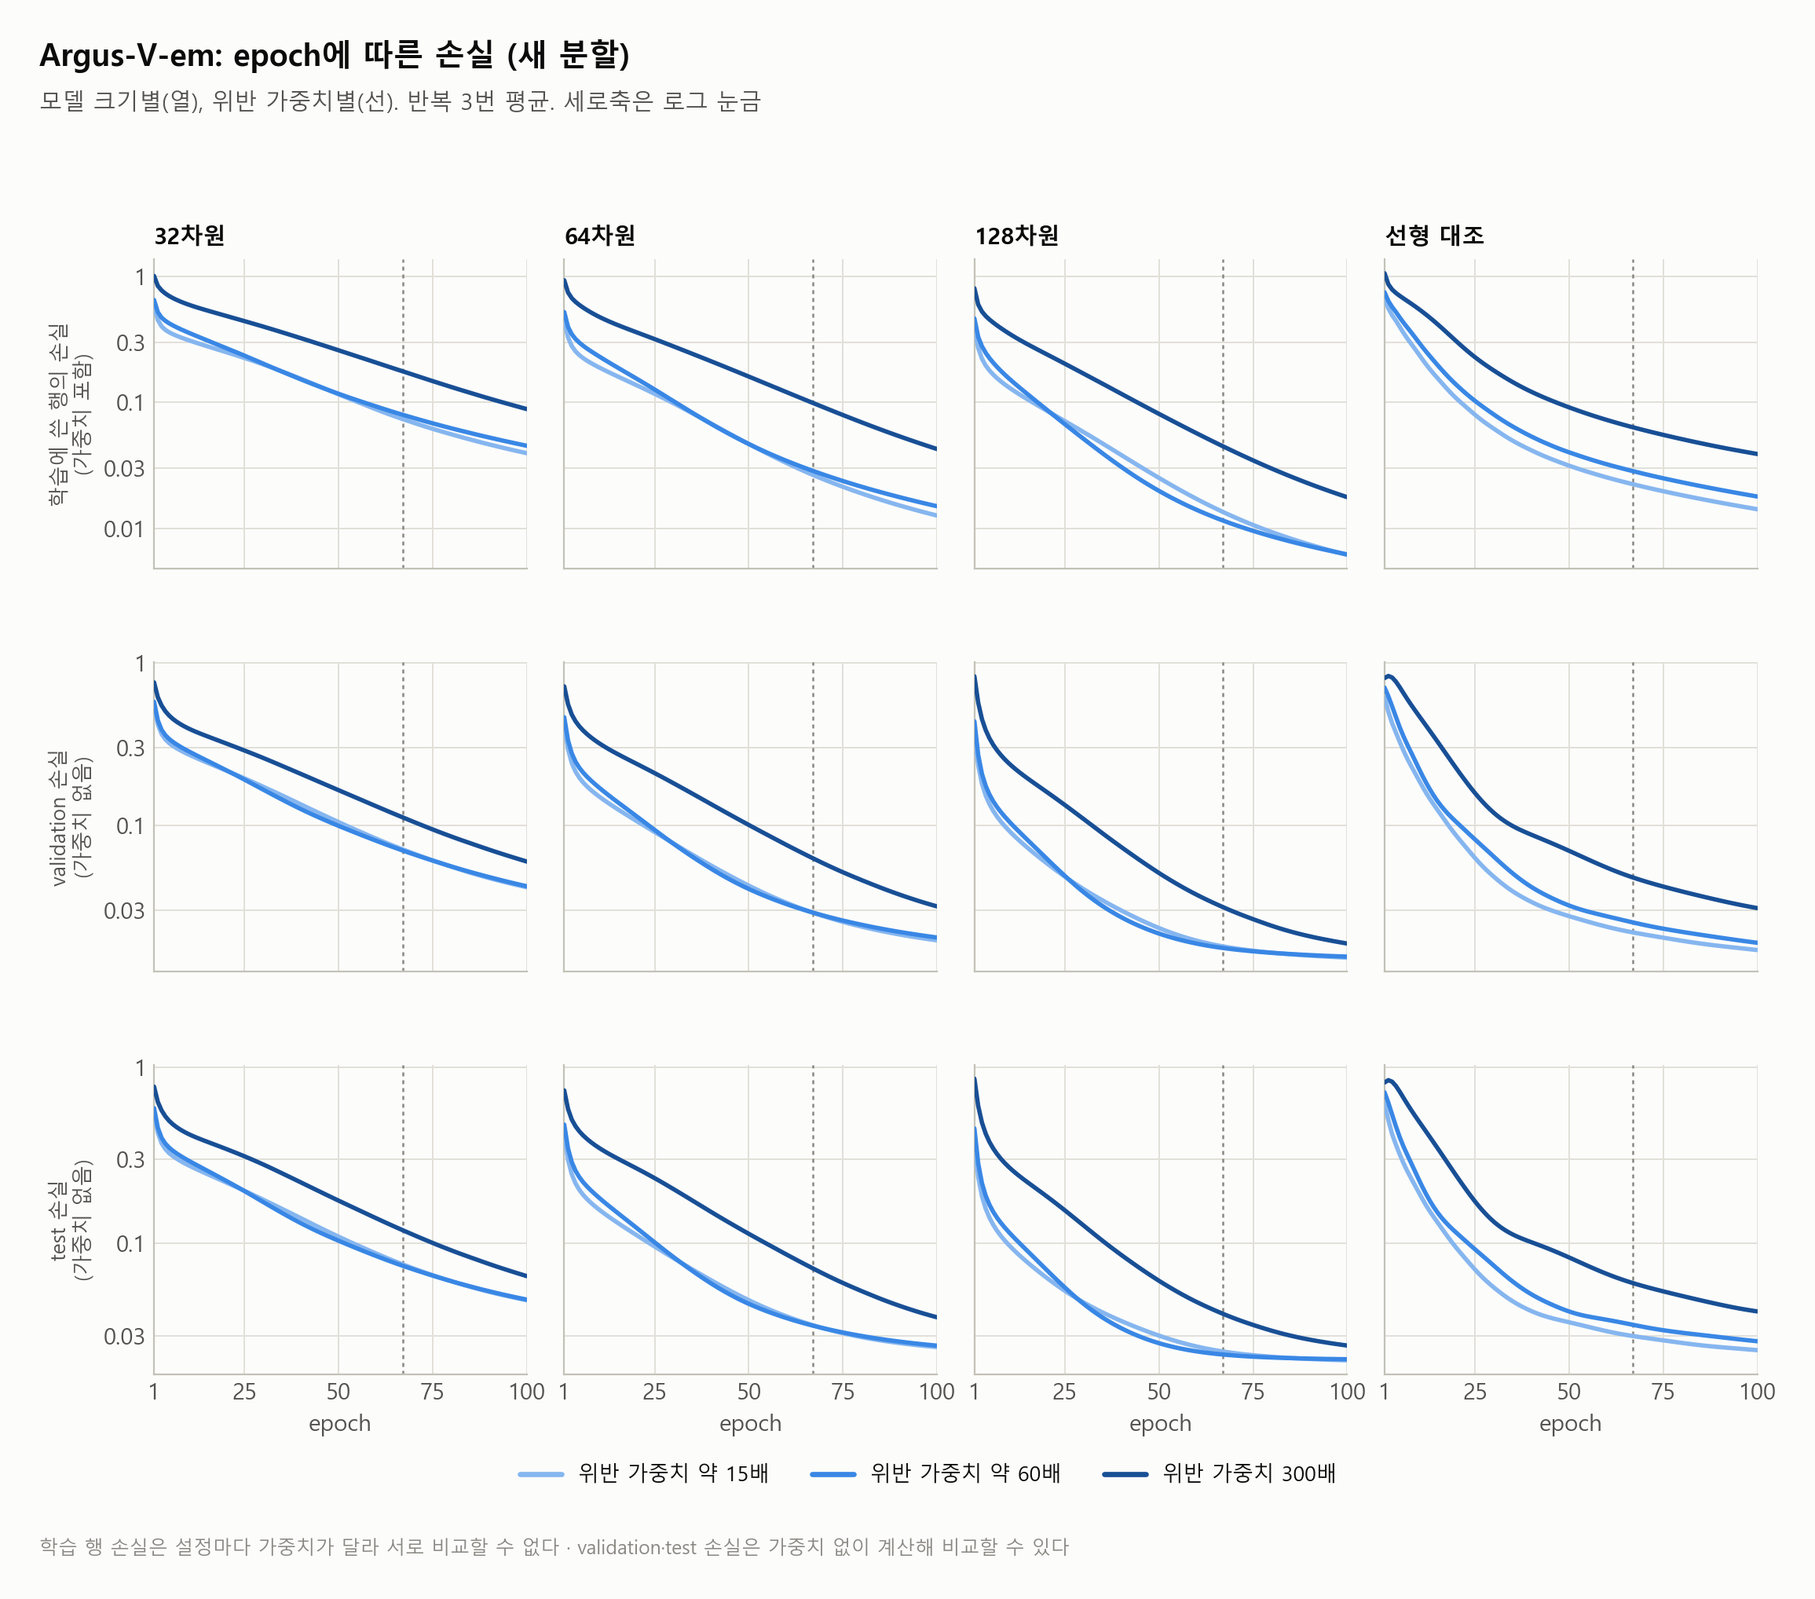
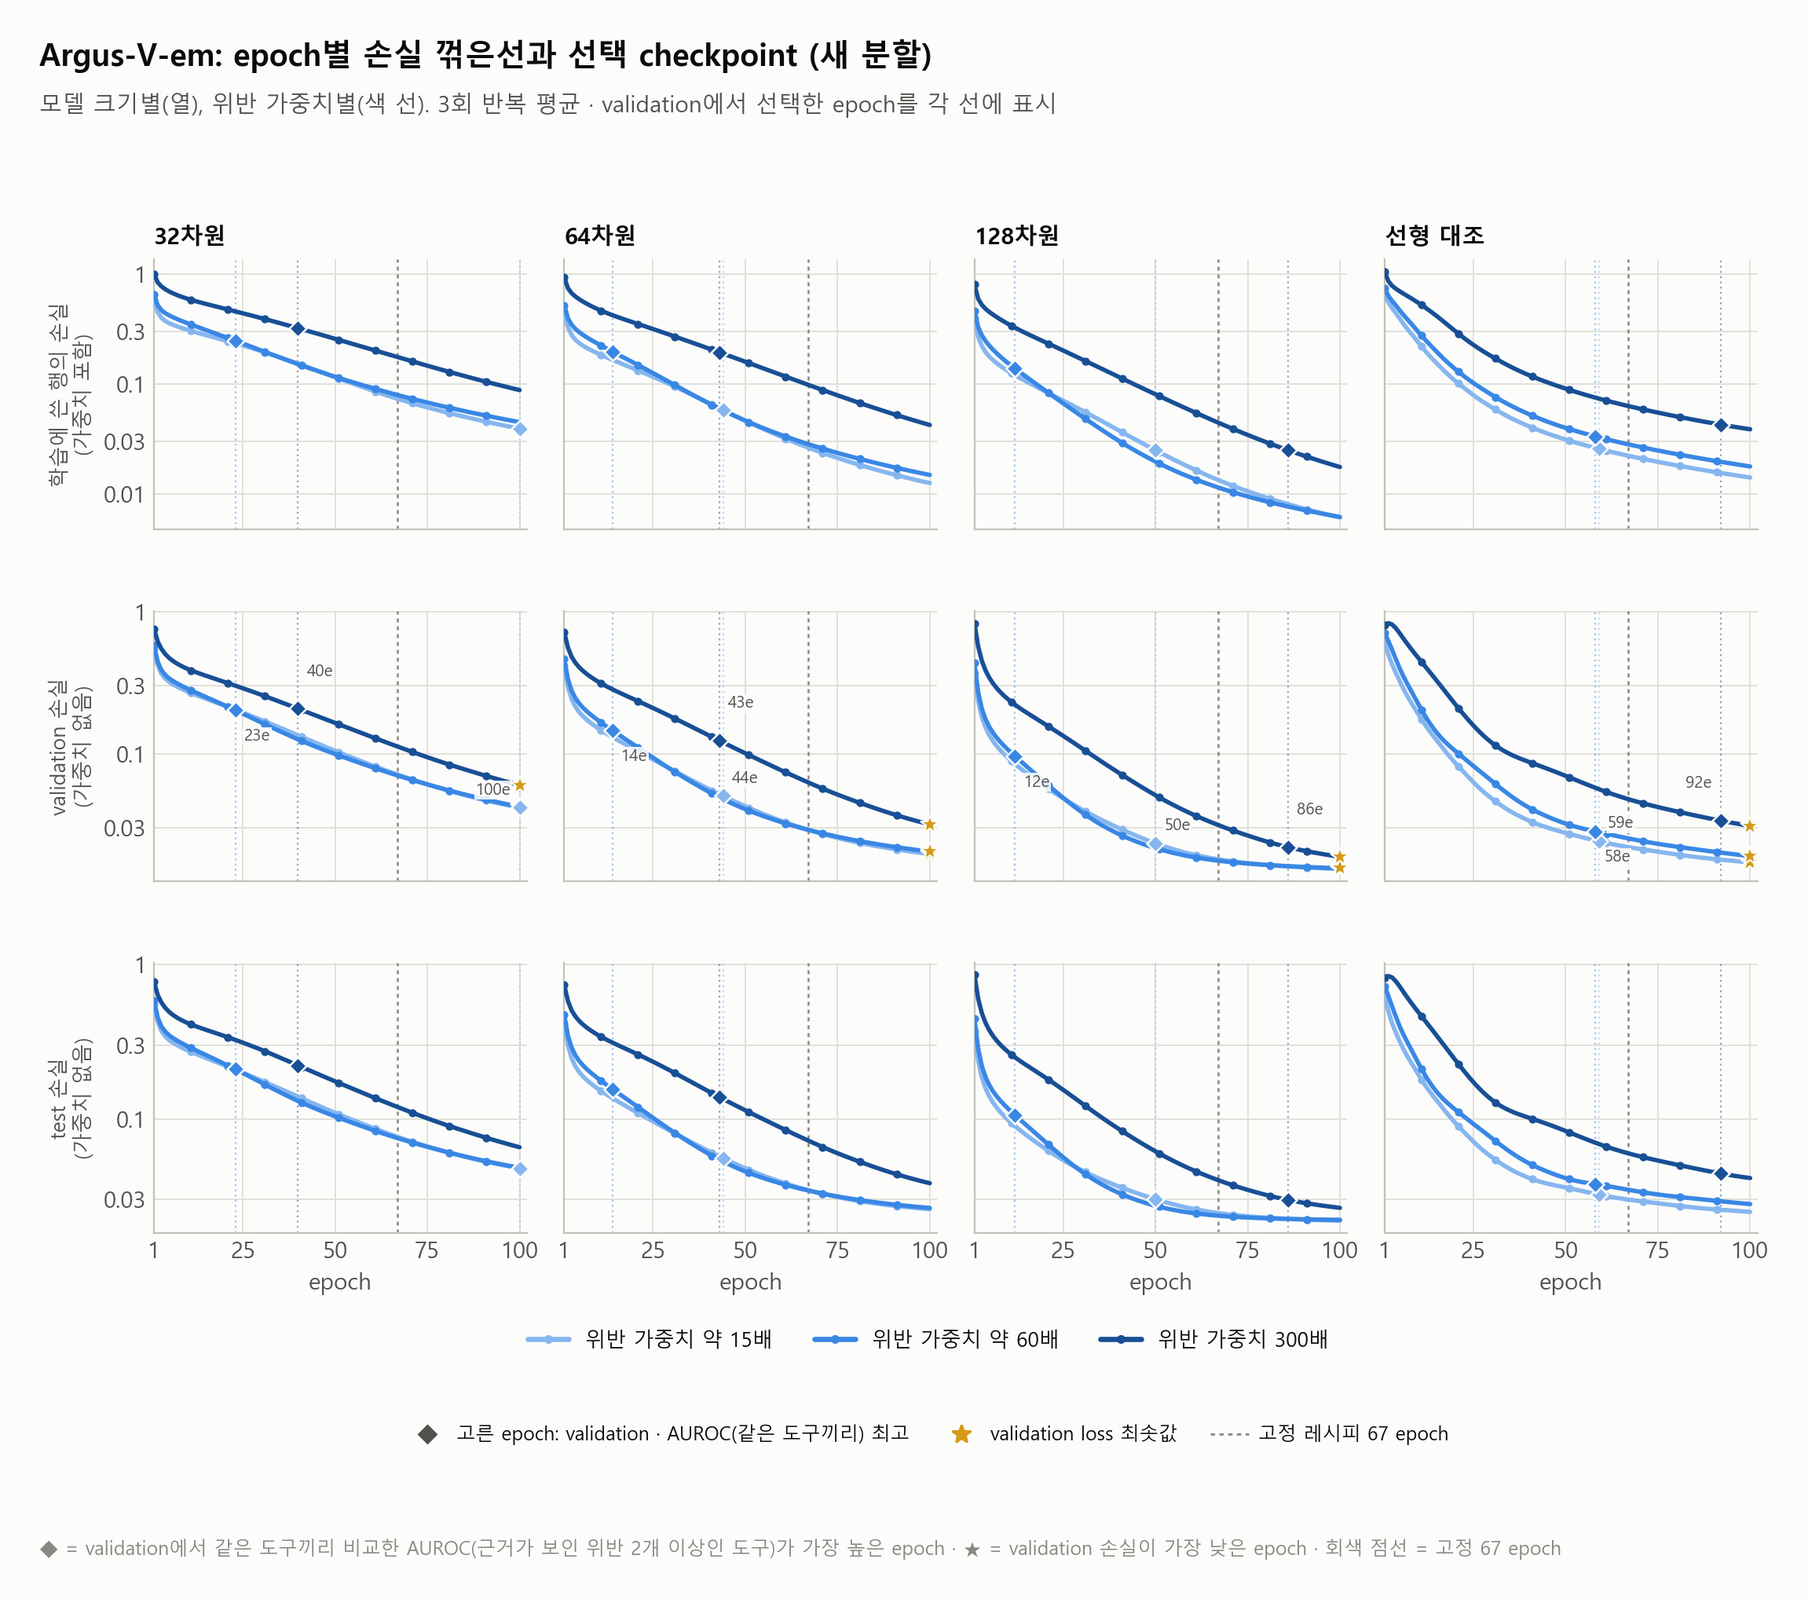
Loss figure with the picked epochs, and the handoff for the push
Adds the per-epoch loss line chart of the new split (run01 figure 03, copied
as figure 23 of the model history figures): a point every 10 epochs, the
epoch picked on validation, the epoch of the lowest validation loss and the
fixed epoch 67. The figure was made in another session and left uncommitted;
its legend and note used the internal metric key st_vis2, which is replaced
by plain words before the presentation. Redrawn from saved results only.

The Argus-V-emp architecture figure and model description were already in
70b83f5 and go out with this push.

diff --git a/experiments/risk_loop/argus_loop/resplit_run01_figures.py b/experiments/risk_loop/argus_loop/resplit_run01_figures.py
@@ -2,7 +2,7 @@
 
 01  every model at the epoch picked on validation: main metric, wider metric, within-period all calls (validation and test)
 02  Argus-V-em per-epoch curves: one column per model size, one line per violation weight
-03  Argus-V-em losses per epoch: training rows (weighted, evaluation mode) and validation (unweighted)
+03  Argus-V-em loss line charts: epoch points, selected-checkpoint diamonds, validation-loss minima, fixed epoch 67
 
 Usage: PYTHONUTF8=1 py -3.11 experiments/risk_loop/argus_loop/resplit_run01_figures.py
 Output: reports/risk-loop/resplit-1117/run01/figures/*.png
@@ -78,24 +78,51 @@ def fig01(res):
     PP.save(fig, OUT, "01_모델별_validation_test.png")
 
 
-def _curves(res, rows_spec, fname, head, sub, note, ylim=None, log=False, vline=True):
+def _curves(res, rows_spec, fname, head, sub, note, ylim=None, log=False, vline=True, mark_selected_epoch=False):
     plt = PP.plt
     archs = [a for a in R.ARCHS if any(c.startswith(a + "_") for c in res["em"])]
     fig, axes = plt.subplots(len(rows_spec), len(archs), figsize=(11.6, 2.55 * len(rows_spec) + 2.2), sharex=True, sharey="row", squeeze=False)
     h = 2.55 * len(rows_spec) + 2.2
-    fig.subplots_adjust(top=1 - 1.5 / h, left=0.075, right=0.955, bottom=1.25 / h, wspace=0.10, hspace=0.30)
+    bottom = (2.15 if mark_selected_epoch else 1.25) / h
+    fig.subplots_adjust(top=1 - 1.5 / h, left=0.075, right=0.955, bottom=bottom, wspace=0.10, hspace=0.30)
     ep = np.arange(1, res["epochs"] + 1)
     for ri, (split, key, label) in enumerate(rows_spec):
         for ci, arch in enumerate(archs):
             ax = axes[ri][ci]
             ends = []
-            for wtag in R.WEIGHT_RULES:
+            for wi, wtag in enumerate(R.WEIGHT_RULES):
                 r = res["em"].get(f"{arch}_{wtag}")
                 if r is None:
                     continue
                 src = r["loss"][key] if split == "loss" else r["curves_mean"][split][key]
                 v = np.asarray([nan(x) for x in src])
-                ax.plot(ep, v, color=RAMP[wtag], lw=2.0, zorder=3, solid_capstyle="round")
+                ax.plot(ep, v, color=RAMP[wtag], lw=2.0, zorder=3, solid_capstyle="round",
+                        marker="o" if mark_selected_epoch else None,
+                        markevery=10 if mark_selected_epoch else None,
+                        markersize=2.7 if mark_selected_epoch else None)
+                if mark_selected_epoch:
+                    picked = int(r["pick"]["epoch"])
+                    if split == "validation":
+                        finite = np.flatnonzero(np.isfinite(v))
+                        if len(finite):
+                            min_i = finite[int(np.argmin(v[finite]))]
+                            ax.plot(ep[min_i], v[min_i], marker="*", markersize=9,
+                                    color="#d49a18", markeredgecolor=PP.SURFACE,
+                                    markeredgewidth=0.8, zorder=7)
+                    ax.axvline(picked, color=RAMP[wtag], lw=0.8, alpha=0.50,
+                               ls=(0, (1, 2)), zorder=1)
+                    ax.plot(picked, v[picked - 1], marker="D", markersize=5.6,
+                            color=RAMP[wtag], markeredgecolor=PP.SURFACE,
+                            markeredgewidth=0.9, zorder=8)
+                    if split == "validation":
+                        dx = -4 if picked >= res["epochs"] - 8 else 4
+                        dy = (8, -12, 17)[wi]
+                        ax.annotate(f"{picked}e", (picked, v[picked - 1]),
+                                    xytext=(dx, dy), textcoords="offset points",
+                                    ha="right" if dx < 0 else "left", va="center",
+                                    fontsize=7.4, color=PP.INK2,
+                                    bbox={"facecolor": PP.SURFACE, "edgecolor": "none", "alpha": 0.88, "pad": 0.5},
+                                    zorder=9)
                 ends.append(float(v[-1]))
             if log:
                 ax.set_yscale("log")
@@ -111,7 +138,7 @@ def _curves(res, rows_spec, fname, head, sub, note, ylim=None, log=False, vline=
                     ax.set_ylim(*ylim)
             if vline:
                 ax.axvline(res["fixed_epoch"], color=PP.MUTED, lw=0.9, ls=(0, (2, 2)), zorder=1)
-            ax.set_xlim(1, res["epochs"])
+            ax.set_xlim(1, res["epochs"] + (2 if mark_selected_epoch else 0))
             ax.set_xticks([1, 25, 50, 75, 100])
             if ri == 0:
                 ax.set_title(ARCH_KO[arch], fontsize=10.6, color=PP.INK, pad=7, loc="left")
@@ -119,8 +146,21 @@ def _curves(res, rows_spec, fname, head, sub, note, ylim=None, log=False, vline=
                 ax.set_xlabel("epoch")
             if ci == 0:
                 ax.set_ylabel(label, fontsize=9.4)
-    fig.legend(handles=[PP.Line2D([0], [0], color=RAMP[w], lw=2.4, label="위반 가중치 " + W_SHORT[w]) for w in R.WEIGHT_RULES],
-               loc="lower center", bbox_to_anchor=(0.5, 0.42 / h), ncol=3, columnspacing=2.0, handlelength=2.0, fontsize=9.6)
+    fig.legend(handles=[PP.Line2D([0], [0], color=RAMP[w], lw=2.4,
+                                 marker="o" if mark_selected_epoch else None, markersize=3.0,
+                                 label="위반 가중치 " + W_SHORT[w]) for w in R.WEIGHT_RULES],
+               loc="lower center", bbox_to_anchor=(0.5, 0.13 if mark_selected_epoch else 0.42 / h),
+               ncol=3, columnspacing=2.0, handlelength=2.0, fontsize=9.4)
+    if mark_selected_epoch:
+        fig.legend(handles=[
+            PP.Line2D([0], [0], color=PP.INK2, marker="D", ls="None", markersize=5.5,
+                      markerfacecolor=PP.INK2, label="고른 epoch: validation · AUROC(같은 도구끼리) 최고"),
+            PP.Line2D([0], [0], color="#d49a18", marker="*", ls="None", markersize=9,
+                      label="validation loss 최솟값"),
+            PP.Line2D([0], [0], color=PP.MUTED, lw=1.0, ls=(0, (2, 2)),
+                      label=f"고정 레시피 {res['fixed_epoch']} epoch"),
+        ], loc="lower center", bbox_to_anchor=(0.5, 0.07), ncol=3,
+           columnspacing=1.7, handletextpad=0.5, fontsize=8.8)
     PP.title(fig, head, sub)
     PP.note(fig, note)
     PP.save(fig, OUT, fname)
@@ -138,9 +178,10 @@ def main():
             "넓힌 지표 = 같은 도구끼리, 근거가 보인 위반 2개 이상인 도구 · 주 지표 = 3개 이상 · 가로 점선 = 0.5(우연)와 0.90(목표)", ylim=(0.2, 1.02))
     _curves(res, (("loss", "train_eval", "학습에 쓴 행의 손실\n(가중치 포함)"), ("validation", "logloss", "validation 손실\n(가중치 없음)"),
                   ("test", "logloss", "test 손실\n(가중치 없음)")),
-            "03_epoch별_손실.png", "Argus-V-em: epoch에 따른 손실 (새 분할)",
-            "모델 크기별(열), 위반 가중치별(선). 반복 3번 평균. 세로축은 로그 눈금",
-            "학습 행 손실은 설정마다 가중치가 달라 서로 비교할 수 없다 · validation·test 손실은 가중치 없이 계산해 비교할 수 있다", log=True)
+            "03_epoch별_손실.png", "Argus-V-em: epoch별 손실 꺾은선과 선택 checkpoint (새 분할)",
+            "모델 크기별(열), 위반 가중치별(색 선). 3회 반복 평균 · validation에서 선택한 epoch를 각 선에 표시",
+            "◆ = validation에서 같은 도구끼리 비교한 AUROC(근거가 보인 위반 2개 이상인 도구)가 가장 높은 epoch · ★ = validation 손실이 가장 낮은 epoch · 회색 점선 = 고정 67 epoch",
+            log=True, mark_selected_epoch=True)
 
 
 if __name__ == "__main__":

diff --git a/reports/risk-loop/argus-v1/loop/HANDOFF.md b/reports/risk-loop/argus-v1/loop/HANDOFF.md
@@ -1,5 +1,16 @@
 # HANDOFF — Argus-V1 성능 향상 루프
 
+## 인수인계 기록 추가 — 2026-11-18 03:10 KST (Claude) — 모델 구조 그림·문서까지 합쳐 커밋하고 origin에 푸시
+
+- **사용자 지시**: "현재 모델 구조에 대해 그린 것과 문서화 한 것도 있어서 그것까지 합쳐서 커밋 후 푸시해".
+- **모델 구조 그림·문서**는 이미 로컬 커밋 `70b83f5`(2026-11-18 02:38, 다른 세션)에 들어 있었다: `reports/risk-loop/argus-v-emp/ARGUS_V_EMP.md`, `reports/risk-loop/argus-v-emp/architecture/argus_v_emp_architecture.png`·`.svg`, 그리는 스크립트 `experiments/risk_loop/argus_loop/argus_v_emp_architecture.py`. 그대로 푸시에 포함했다.
+- **이번 커밋에 합친 것**(다른 세션이 2026-11-17 04:25에 만들고 커밋하지 않은 그림 작업): `resplit_run01_figures.py`의 손실 그림 개선(10 epoch마다 점, 고른 epoch ◆, validation 손실 최솟값 ★), 그 결과인 run01 그림 02·03, 같은 그림의 사본 `model_history_figures/23_Argus-V-em_epoch별_loss_새_분할.png`, 그림 목록 README의 23번 줄.
+  - 커밋 전에 고친 것: 범례·설명·README에 내부 지표 이름 `st_vis2`가 그대로 있어 쉬운 말로 바꿨다("validation에서 같은 도구끼리 비교한 AUROC(근거가 보인 위반 2개 이상인 도구)가 가장 높은 epoch"). 저장된 결과로 다시 그렸다(학습 없음, 그림 01은 바이트까지 같음).
+  - `model_history.md`의 그림 절을 23장으로 고쳤다.
+- **넣지 않은 것**: `local-sites/argus-v-demo-dashboard/`(그 안에 별도 git 저장소와 외부 호스팅 설정이 있는 대시보드, 모델 구조가 아님), 저장소 맨 위 `ArgusV_review_progress copy.json`(열지도 커밋하지도 않는다는 규칙).
+- **푸시 전 점검**: `origin/feat/m1-aligned-text-detector`보다 커밋 141개 앞서고 뒤처진 것은 없다(병합 불필요). 그 범위에서 토큰·키 모양의 문자열 0개. 범위 안의 `ArgusV_review_progress.json`(팀원 커밋 `b38f64c`, 2026-10-21)과 큰 `tensor_data/` 파일들은 이미 `origin/main`에 있는 커밋이라 새로 올라가지 않는다. 실제로 새로 올라가는 파일은 40여 개, 약 8 MB.
+- **푸시 대상**: 이 브랜치의 upstream인 `origin`(github.com/ljg5489/Argus-V)의 `feat/m1-aligned-text-detector`. `fork`(사용자 개인 저장소)에는 푸시하지 않았다.
+
 ## 인수인계 기록 추가 — 2026-11-18 (Claude) — Argus-V-emp 아키텍처 그림(PNG·SVG)과 전체 설명서
 
 - **지금 돌고 있는 것 없음.** 새 학습·새 채점 없음(코드, 저장된 모델 파일, 저장된 점수만 읽음).
@@ -511,6 +522,7 @@
 | 2026-11-17 02:55 | **돌고 있는 것 없음.** 사용자 지시로 정리 문서와 표의 모든 숫자에 "어디서 잰 값 · 어떤 지표"를 붙임 | `model_history.md` 표 33개, 생성 스크립트의 열 이름, `argus-v-emp/README.md`. 새 test · 5% 문턱의 F1을 모델마다 계산: Argus-V-emp 0.131(가장 높음), Argus-V-p 0.010 ~ 0.099, Argus-V-em 0.074 ~ 0.111 | 사용자 결정(시연에 Argus-V-emp를 쓸지, P3·P5 저장 학습 승인) |
 | 2026-11-17 03:57 | **돌고 있는 것 없음.** 사용자 지시로 발표용 그림 22장 작성(모든 모델의 성능지표, ROC 곡선은 그릴 수 있는 모델 전부) | `reports/risk-loop/model_history_figures/`(PNG 22장, README.md, numbers.json), 스크립트 `argus_v_history_figures.py`. 새 학습 없음. 기존 분할 값은 저장된 점수로 다시 계산해 기록과 일치 확인. 그 사이 사용자 질문(무엇을 섞었나, 점수만 있다는 뜻, 0~1 변환, 커트라인)에 답함 | 사용자 결정(P3·P5 모델 파일 저장 학습 승인) |
 | 2026-11-17 04:09 | **돌고 있는 것 없음.** 사용자 승인으로 Argus-V-p P3·P5를 다시 학습(04:07~04:08)해 모델 파일로 저장, Argus-V-emp 모델 폴더 완성 | `artifacts/risk-loop/resplit-1117/argus_v_emp/`(Argus-V-em 36개 + P3.pkl + P5.pkl + 기준표 + manifest, 58 MB). 다시 학습한 점수와 저장된 점수의 차이 0, 모델 폴더만으로 다시 채점해도 차이 0(새 test AUROC 0.913). 호출 하나에 56ms. 코드: `argus_v_emp_export.py`, `argus_v_emp_model.py` | 재생 도구·hook 연결은 사용자 지시 대기 |
+| 2026-11-18 03:10 | **돌고 있는 것 없음.** 사용자 지시로 모델 구조 그림·문서(커밋 `70b83f5`)와 남아 있던 손실 그림 작업을 합쳐 커밋하고 `origin/feat/m1-aligned-text-detector`에 푸시 | 손실 그림의 내부 지표 이름 `st_vis2`를 쉬운 말로 고쳐 다시 그림. `local-sites/`와 `ArgusV_review_progress copy.json`은 넣지 않음. 푸시 전 점검: 뒤처진 커밋 없음, 토큰 모양 문자열 없음, 새로 올라가는 파일 약 8 MB | 발표 |
 
 # 지금 상태 — 2026-11-15 (가장 최신. 아래 3단계 대시보드는 2026-11-11까지의 기록)
 

diff --git a/reports/risk-loop/model_history_figures/README.md b/reports/risk-loop/model_history_figures/README.md
@@ -3,6 +3,7 @@
 `../model_history.md`에 정리한 모든 모델(Argus-V-p 6개 설정, Argus-V-em 모델 4종 × 위반 가중치, Argus-V-emp)의 성능지표를 matplotlib으로 그린 것이다. 사용자 지시: "발표에 필요한 수집된 모든 모델에 대해 성능지표를 matplotlib으로 생성해", "ROC 곡선 그릴 수 있는 것은 무조건 그리고!"
 
 - **새 학습은 없다.** 저장된 점수와 기록만 읽었다. 다시 그리기: `PYTHONUTF8=1 py -3.11 experiments/risk_loop/argus_loop/argus_v_history_figures.py` (일부만: `--only 4,19`).
+- **23번은 새 분할 run01의 epoch별 손실 곡선이다.** 재생성 스크립트: `experiments/risk_loop/argus_loop/resplit_run01_figures.py`. ◆는 미리 정한 기준(validation에서 같은 도구끼리 비교한 AUROC가 가장 높은 epoch, 근거가 보인 위반 2개 이상인 도구)으로 고른 epoch, ★는 validation loss가 가장 낮은 epoch, 회색 점선은 고정 레시피의 67 epoch이다.
 - **모든 그림에 "어디서 잰 값 · 어떤 지표"를 적었다.** 어디서: k-fold 교차검증(기존 train만으로 한 5-fold) / train 재채점 / 새 validation / 기존 test / 새 test. 지표: AUROC / 재현율 / 정밀도 / F1 / 개수.
 - **ROC 곡선은 호출별 점수가 저장된 모델 전부에 대해 그렸다**: 새 분할의 19개 모델(4~7번), 기존 분할의 Argus-V-p 6개 설정(9번), Argus-V-em 4개 모델(12번), 위반 가중치 5가지(14번), Argus-V-emp(18·19번).
 - 기존 분할의 값은 저장된 점수로 다시 계산했고 기록의 값과 0.002 안에서 일치한다(스크립트가 확인한다). 그림에 쓴 숫자 일부는 `numbers.json`.
@@ -45,6 +46,7 @@
 | 20 | `20_Argus-V-emp_점수_분포와_커트라인.png` | 정상 호출과 위반이 받은 점수, 커트라인 0.864와 0.932 | 새 test · 호출 수 · 재현율 · 정밀도 · F1 |
 | 21 | `21_Argus-V-emp_커트라인별_재현율_정밀도_F1.png` | 커트라인을 옮길 때의 변화 | 새 validation · 새 test · 재현율 · 정밀도 · F1 |
 | 22 | `22_Argus-V-emp_혼동_행렬.png` | 커트라인 0.864로 판정한 결과 | 새 validation · 새 test · 개수 · 재현율 · 정밀도 · F1 · 맞힌 비율 |
+| 23 | `23_Argus-V-em_epoch별_loss_새_분할.png` | Argus-V-em 4종 × 위반 가중치 3종의 epoch별 loss 꺾은선. 10 epoch마다 점 표시 | 새 분할 · 3회 평균 · ◆ 선택 checkpoint · ★ validation loss 최솟값 · 67 epoch 기준선 |
 
 ## 그림에서 읽히는 것
 
@@ -78,3 +80,4 @@
 ![20](20_Argus-V-emp_점수_분포와_커트라인.png)
 ![21](21_Argus-V-emp_커트라인별_재현율_정밀도_F1.png)
 ![22](22_Argus-V-emp_혼동_행렬.png)
+![23](23_Argus-V-em_epoch별_loss_새_분할.png)
